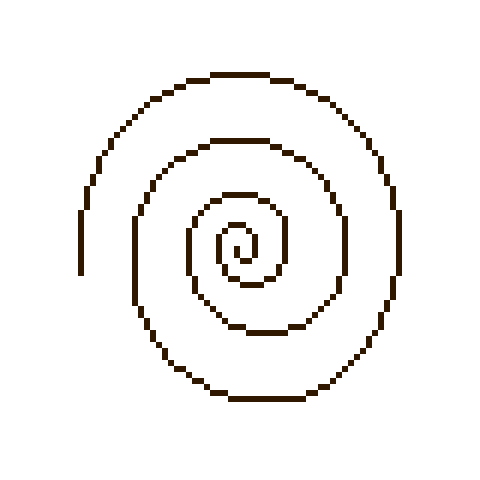
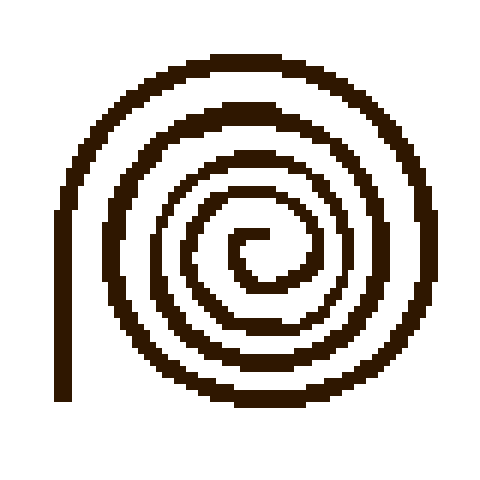
Continuation sur la classe ssymbole et sort, combinaison faisable ajouté

Changed region(s): [[0.0938, 0.0938, 0.9375, 0.875]]

diff --git a/src/main/resources/universite_paris8/iut/nchaieb/sae_jeux/application.css b/src/main/resources/universite_paris8/iut/nchaieb/sae_jeux/application.css
@@ -1,5 +1,25 @@
-.root {
-    -fx-font-size: 14px;
-    -fx-font-family: sans-serif;
-    -fx-background-color: #ffffff;
+.scroll-pane {
+    -fx-background-color: black;
+}
+
+.scroll-bar:horizontal, .scroll-bar:horizontal{
+    -fx-background-color:transparent;
+}
+
+.increment-button, .decrement-button {
+    -fx-background-color: transparent;
+    -fx-border-color: transparent;
+}
+
+.scroll-bar:horizontal .track,
+.scroll-bar:vertical .track{
+    -fx-background-color: transparent;
+    -fx-border-color: transparent;
+    -fx-background-radius: 0em;
+}
+
+.scroll-bar:horizontal .thumb,
+.scroll-bar:vertical .thumb {
+    -fx-background-color: #ece3cd;
+    -fx-background-radius: 5em;
 }

diff --git a/src/main/java/universite_paris8/iut/nchaieb/sae_jeux/modele/SortDeFeu.java b/src/main/java/universite_paris8/iut/nchaieb/sae_jeux/modele/SortDeFeu.java
@@ -1,0 +1,29 @@
+package universite_paris8.iut.nchaieb.sae_jeux.modele;
+
+import java.util.ArrayList;
+
+public class SortDeFeu extends SortDeBase{
+
+    private final ArrayList<Symbole> combinaison;
+
+    public SortDeFeu(){
+        super(30);
+        this.combinaison = new ArrayList<>();
+        Symbole symboleCroix = new Symbole("Croix");
+        this.combinaison.add(symboleCroix);
+        Symbole symboleGoutteDeau = new Symbole("Goutte");
+        this.combinaison.add(symboleGoutteDeau);
+        Symbole symboleSpirale = new Symbole("Spirale");
+        this.combinaison.add(symboleSpirale);
+    }
+
+    @Override
+    public ArrayList<Symbole> getCombinaison() { return this.combinaison; }
+
+    @Override
+    public void combinaisonValidee(){
+        System.out.println("BOOMBOOOOOSSSCCLAT un sort est lancé !!");
+    }
+}
+
+

diff --git a/src/main/java/universite_paris8/iut/nchaieb/sae_jeux/Controller.java b/src/main/java/universite_paris8/iut/nchaieb/sae_jeux/Controller.java
@@ -107,6 +107,8 @@ public class Controller implements Initializable{
             //Partie sort
             this.symboles = new ArrayList<>();
             this.lesSorts = new ArrayList<>();
+            SortDeBase sc = new SortDeFeu();
+            this.lesSorts.add(sc);
         }
 
 
@@ -145,34 +147,36 @@ public class Controller implements Initializable{
     public void AppuyerSurSymboleCroix() {
         Symbole symboleCroix = new Symbole("Croix");
         this.symboles.add(symboleCroix);
+        System.out.println("Croix ajouté dans la liste");
     }
 
     @FXML
     public void AppuyerSurSymboleGoutteDeau() {
-        Symbole symboleGoutteDeau= new Symbole("GoutteDeau");
+        Symbole symboleGoutteDeau= new Symbole("Goutte");
         this.symboles.add(symboleGoutteDeau);
+        System.out.println("Goutte ajouté dans liste");
     }
 
     @FXML
-    public void validerPentacle(){
+    public void AppuyerSurSymboleSpirale() {
+        Symbole symboleSpirale = new Symbole("Spirale");
+        this.symboles.add(symboleSpirale);
+        System.out.println("Spirale ajouté dans la liste");
+    }
+
+    @FXML
+    public void AppuyerSurValideePentacle(){
         SortDeBase sortActuel;
 
         for (int i = 0; i < this.lesSorts.size(); i++){
             sortActuel = this.lesSorts.get(i);
 
             if (sortActuel.combinaisonValidee(this.symboles)){
-                //jsplus jhr aide moi
+                sortActuel.combinaisonValidee();
             }
 
         }
 
         this.symboles.clear();
     }
-
-    @FXML
-    public void AppuyerSurSymboleSpirale() {
-        Symbole symboleSpirale = new Symbole("Spirale");
-        this.symboles.add(symboleSpirale); 
-    }
-
 }

diff --git a/src/main/java/universite_paris8/iut/nchaieb/sae_jeux/modele/SortDeBase.java b/src/main/java/universite_paris8/iut/nchaieb/sae_jeux/modele/SortDeBase.java
@@ -14,19 +14,21 @@ public abstract class SortDeBase implements Sort {
     public abstract ArrayList<Symbole> getCombinaison();
 
     public boolean combinaisonValidee(ArrayList<Symbole> symboles){
-        ArrayList<Symbole> combinaisonSort = getCombinaison();
+        ArrayList<Symbole> combinaisonDuSort = getCombinaison();
         String bonneCombinaison;
-        String combinaisonProposee;
+        String combinaisonComposee;
 
-        if (symboles.size() != combinaisonSort.size()){
+        if (symboles.size() != combinaisonDuSort.size()){
+            System.out.println("Pas la même longueur");
             return false;
         }
 
         for (int i = 0; i < symboles.size(); i++){
-            bonneCombinaison = combinaisonSort.get(i).getType();
-            combinaisonProposee = symboles.get(i).getType();
+            bonneCombinaison = combinaisonDuSort.get(i).getType();
+            combinaisonComposee = symboles.get(i).getType();
 
-            if (bonneCombinaison != combinaisonProposee){
+            if (!bonneCombinaison.equals(combinaisonComposee)){
+                System.out.println("pas égale");
                 return false;
             }
         }